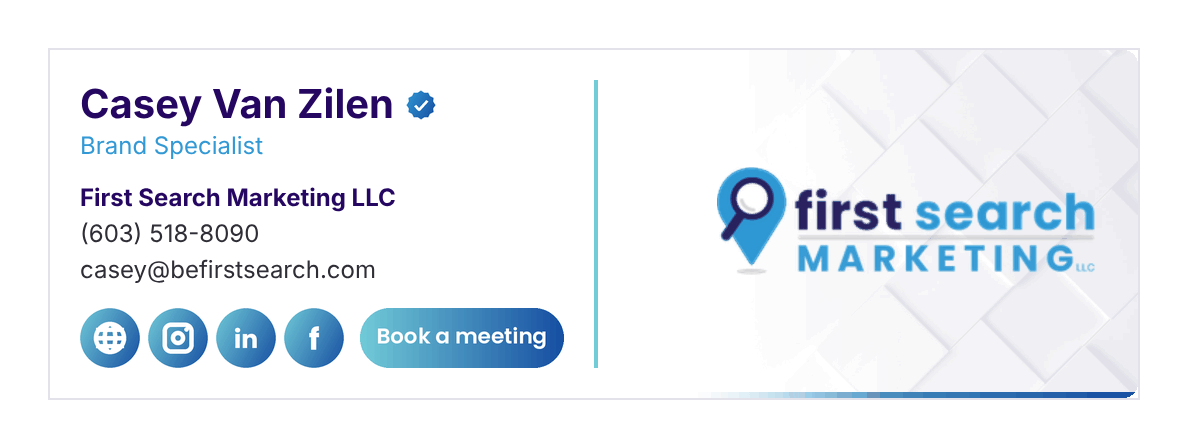
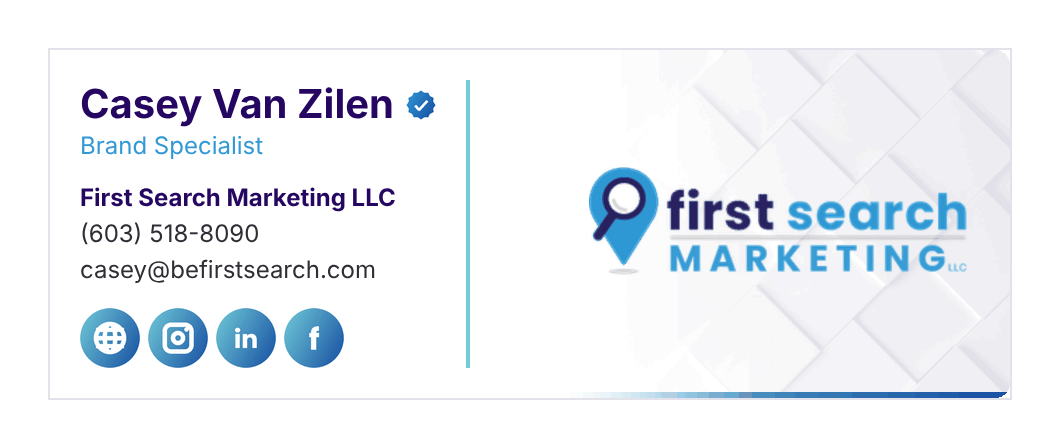
Email signature: no Book a meeting button for Jordyn and Casey
Claude-Session: https://claude.ai/code/session_013fjRDgxqUEnUcVR5QGeKxu

diff --git a/email-signature/jordyn-reardon.html b/email-signature/jordyn-reardon.html
@@ -32,7 +32,7 @@ ol { margin: 0; padding-left: 20px; } li { margin: 4px 0; }
     <tr><td style="padding:10px 0 0 0;">
       <table cellpadding="0" cellspacing="0" border="0" style="border-collapse:collapse;"><tr>
         <td style="padding:0 4px 0 0;"><a href="https://befirstsearch.com/" target="_blank" style="text-decoration:none;"><img class="fs-d" src="https://raw.githubusercontent.com/chrismitchell-cmd/first-search-marketing/038d49aa300f69e9255e79509927c0bbda54a0d3/email-signature/img/icon-web.gif" width="30" height="30" alt="Website" style="display:block;border:0;width:30px;height:30px;"><!--[if !mso]><!--><img class="fs-h" src="https://raw.githubusercontent.com/chrismitchell-cmd/first-search-marketing/038d49aa300f69e9255e79509927c0bbda54a0d3/email-signature/img/icon-web-hover.png" width="30" height="30" alt="Website" style="display:none;mso-hide:all;border:0;width:30px;height:30px;max-height:0;overflow:hidden;"><!--<![endif]--></a></td><td style="padding:0 4px 0 0;"><a href="https://www.instagram.com/firstsearchmktg/" target="_blank" style="text-decoration:none;"><img class="fs-d" src="https://raw.githubusercontent.com/chrismitchell-cmd/first-search-marketing/038d49aa300f69e9255e79509927c0bbda54a0d3/email-signature/img/icon-instagram.gif" width="30" height="30" alt="Instagram" style="display:block;border:0;width:30px;height:30px;"><!--[if !mso]><!--><img class="fs-h" src="https://raw.githubusercontent.com/chrismitchell-cmd/first-search-marketing/038d49aa300f69e9255e79509927c0bbda54a0d3/email-signature/img/icon-instagram-hover.png" width="30" height="30" alt="Instagram" style="display:none;mso-hide:all;border:0;width:30px;height:30px;max-height:0;overflow:hidden;"><!--<![endif]--></a></td><td style="padding:0 4px 0 0;"><a href="https://www.linkedin.com/company/first-search-marketing/" target="_blank" style="text-decoration:none;"><img class="fs-d" src="https://raw.githubusercontent.com/chrismitchell-cmd/first-search-marketing/038d49aa300f69e9255e79509927c0bbda54a0d3/email-signature/img/icon-linkedin.gif" width="30" height="30" alt="LinkedIn" style="display:block;border:0;width:30px;height:30px;"><!--[if !mso]><!--><img class="fs-h" src="https://raw.githubusercontent.com/chrismitchell-cmd/first-search-marketing/038d49aa300f69e9255e79509927c0bbda54a0d3/email-signature/img/icon-linkedin-hover.png" width="30" height="30" alt="LinkedIn" style="display:none;mso-hide:all;border:0;width:30px;height:30px;max-height:0;overflow:hidden;"><!--<![endif]--></a></td><td style="padding:0 4px 0 0;"><a href="https://www.facebook.com/p/First-Search-Marketing-LLC-100063771473527/" target="_blank" style="text-decoration:none;"><img class="fs-d" src="https://raw.githubusercontent.com/chrismitchell-cmd/first-search-marketing/038d49aa300f69e9255e79509927c0bbda54a0d3/email-signature/img/icon-facebook.gif" width="30" height="30" alt="Facebook" style="display:block;border:0;width:30px;height:30px;"><!--[if !mso]><!--><img class="fs-h" src="https://raw.githubusercontent.com/chrismitchell-cmd/first-search-marketing/038d49aa300f69e9255e79509927c0bbda54a0d3/email-signature/img/icon-facebook-hover.png" width="30" height="30" alt="Facebook" style="display:none;mso-hide:all;border:0;width:30px;height:30px;max-height:0;overflow:hidden;"><!--<![endif]--></a></td>
-        <td style="padding:0 0 0 4px;"><a href="https://befirstsearch.com/contact-us/" target="_blank" style="text-decoration:none;"><img class="fs-d" src="https://raw.githubusercontent.com/chrismitchell-cmd/first-search-marketing/038d49aa300f69e9255e79509927c0bbda54a0d3/email-signature/img/book-a-meeting.gif" width="102" height="30" alt="Book a meeting" style="display:block;border:0;width:102px;height:30px;"><!--[if !mso]><!--><img class="fs-h" src="https://raw.githubusercontent.com/chrismitchell-cmd/first-search-marketing/038d49aa300f69e9255e79509927c0bbda54a0d3/email-signature/img/book-a-meeting-hover.png" width="102" height="30" alt="Book a meeting" style="display:none;mso-hide:all;border:0;width:102px;height:30px;max-height:0;overflow:hidden;"><!--<![endif]--></a></td>
+        
       </tr></table>
     </td></tr>
   </table>
@@ -55,7 +55,7 @@ ol { margin: 0; padding-left: 20px; } li { margin: 4px 0; }
 <li>Outlook &gt; Settings &gt; Signatures &gt; +.</li><li>Paste, name it, and close the window to save.</li></ol></div>
 </main>
 <script>
-var SIG = "<style>.fsig a:hover .fs-d{display:none!important} .fsig a:hover .fs-h{display:block!important;max-height:none!important}</style>\n<table class=\"fsig\" cellpadding=\"0\" cellspacing=\"0\" border=\"0\" style=\"border-collapse:collapse;font-family:Inter, 'Segoe UI', Arial, sans-serif;\">\n<tr><td style=\"padding:0;border:1px solid #E3E2EA;border-radius:8px;background-color:#ffffff;\" bgcolor=\"#ffffff\">\n<table cellpadding=\"0\" cellspacing=\"0\" border=\"0\" style=\"border-collapse:collapse;\"><tr>\n<td valign=\"top\" align=\"left\" style=\"padding:15px;\">\n  <table cellpadding=\"0\" cellspacing=\"0\" border=\"0\" style=\"border-collapse:collapse;\">\n    <tr><td style=\"padding:0 0 8px 0;\">\n      <table cellpadding=\"0\" cellspacing=\"0\" border=\"0\" style=\"border-collapse:collapse;\"><tr>\n        <td valign=\"middle\" style=\"font-family:Inter, 'Segoe UI', Arial, sans-serif;font-size:20px;line-height:24px;font-weight:bold;color:#250762;white-space:nowrap;\">Jordyn Reardon</td>\n        <td valign=\"middle\" style=\"padding-left:6px;\"><img src=\"https://raw.githubusercontent.com/chrismitchell-cmd/first-search-marketing/038d49aa300f69e9255e79509927c0bbda54a0d3/email-signature/img/verified.gif\" width=\"15\" height=\"15\" alt=\"\" style=\"display:block;border:0;width:15px;height:15px;\"></td>\n      </tr></table>\n      <div style=\"font-family:Inter, 'Segoe UI', Arial, sans-serif;font-size:12px;line-height:18px;color:#3299D5;white-space:nowrap;\">Digital Operations Manager</div>\n    </td></tr>\n    <tr><td style=\"font-family:Inter, 'Segoe UI', Arial, sans-serif;font-size:12px;line-height:18px;font-weight:bold;color:#250762;white-space:nowrap;\">First Search Marketing LLC</td></tr>\n    <tr><td style=\"font-family:Inter, 'Segoe UI', Arial, sans-serif;font-size:12px;line-height:18px;white-space:nowrap;\"><a href=\"tel:+16035188090\" target=\"_blank\" style=\"text-decoration:none;color:#2F2E36;\">(603) 518-8090</a></td></tr>\n    <tr><td style=\"font-family:Inter, 'Segoe UI', Arial, sans-serif;font-size:12px;line-height:18px;white-space:nowrap;\"><a href=\"mailto:jordyn@befirstsearch.com\" target=\"_blank\" style=\"text-decoration:none;color:#2F2E36;\">jordyn@befirstsearch.com</a></td></tr>\n    <tr><td style=\"padding:10px 0 0 0;\">\n      <table cellpadding=\"0\" cellspacing=\"0\" border=\"0\" style=\"border-collapse:collapse;\"><tr>\n        <td style=\"padding:0 4px 0 0;\"><a href=\"https://befirstsearch.com/\" target=\"_blank\" style=\"text-decoration:none;\"><img class=\"fs-d\" src=\"https://raw.githubusercontent.com/chrismitchell-cmd/first-search-marketing/038d49aa300f69e9255e79509927c0bbda54a0d3/email-signature/img/icon-web.gif\" width=\"30\" height=\"30\" alt=\"Website\" style=\"display:block;border:0;width:30px;height:30px;\"><!--[if !mso]><!--><img class=\"fs-h\" src=\"https://raw.githubusercontent.com/chrismitchell-cmd/first-search-marketing/038d49aa300f69e9255e79509927c0bbda54a0d3/email-signature/img/icon-web-hover.png\" width=\"30\" height=\"30\" alt=\"Website\" style=\"display:none;mso-hide:all;border:0;width:30px;height:30px;max-height:0;overflow:hidden;\"><!--<![endif]--></a></td><td style=\"padding:0 4px 0 0;\"><a href=\"https://www.instagram.com/firstsearchmktg/\" target=\"_blank\" style=\"text-decoration:none;\"><img class=\"fs-d\" src=\"https://raw.githubusercontent.com/chrismitchell-cmd/first-search-marketing/038d49aa300f69e9255e79509927c0bbda54a0d3/email-signature/img/icon-instagram.gif\" width=\"30\" height=\"30\" alt=\"Instagram\" style=\"display:block;border:0;width:30px;height:30px;\"><!--[if !mso]><!--><img class=\"fs-h\" src=\"https://raw.githubusercontent.com/chrismitchell-cmd/first-search-marketing/038d49aa300f69e9255e79509927c0bbda54a0d3/email-signature/img/icon-instagram-hover.png\" width=\"30\" height=\"30\" alt=\"Instagram\" style=\"display:none;mso-hide:all;border:0;width:30px;height:30px;max-height:0;overflow:hidden;\"><!--<![endif]--></a></td><td style=\"padding:0 4px 0 0;\"><a href=\"https://www.linkedin.com/company/first-search-marketing/\" target=\"_blank\" style=\"text-decoration:none;\"><img class=\"fs-d\" src=\"https://raw.githubusercontent.com/chrismitchell-cmd/first-search-marketing/038d49aa300f69e9255e79509927c0bbda54a0d3/email-signature/img/icon-linkedin.gif\" width=\"30\" height=\"30\" alt=\"LinkedIn\" style=\"display:block;border:0;width:30px;height:30px;\"><!--[if !mso]><!--><img class=\"fs-h\" src=\"https://raw.githubusercontent.com/chrismitchell-cmd/first-search-marketing/038d49aa300f69e9255e79509927c0bbda54a0d3/email-signature/img/icon-linkedin-hover.png\" width=\"30\" height=\"30\" alt=\"LinkedIn\" style=\"display:none;mso-hide:all;border:0;width:30px;height:30px;max-height:0;overflow:hidden;\"><!--<![endif]--></a></td><td style=\"padding:0 4px 0 0;\"><a href=\"https://www.facebook.com/p/First-Search-Marketing-LLC-100063771473527/\" target=\"_blank\" style=\"text-decoration:none;\"><img class=\"fs-d\" src=\"https://raw.githubusercontent.com/chrismitchell-cmd/first-search-marketing/038d49aa300f69e9255e79509927c0bbda54a0d3/email-signature/img/icon-facebook.gif\" width=\"30\" height=\"30\" alt=\"Facebook\" style=\"display:block;border:0;width:30px;height:30px;\"><!--[if !mso]><!--><img class=\"fs-h\" src=\"https://raw.githubusercontent.com/chrismitchell-cmd/first-search-marketing/038d49aa300f69e9255e79509927c0bbda54a0d3/email-signature/img/icon-facebook-hover.png\" width=\"30\" height=\"30\" alt=\"Facebook\" style=\"display:none;mso-hide:all;border:0;width:30px;height:30px;max-height:0;overflow:hidden;\"><!--<![endif]--></a></td>\n        <td style=\"padding:0 0 0 4px;\"><a href=\"https://befirstsearch.com/contact-us/\" target=\"_blank\" style=\"text-decoration:none;\"><img class=\"fs-d\" src=\"https://raw.githubusercontent.com/chrismitchell-cmd/first-search-marketing/038d49aa300f69e9255e79509927c0bbda54a0d3/email-signature/img/book-a-meeting.gif\" width=\"102\" height=\"30\" alt=\"Book a meeting\" style=\"display:block;border:0;width:102px;height:30px;\"><!--[if !mso]><!--><img class=\"fs-h\" src=\"https://raw.githubusercontent.com/chrismitchell-cmd/first-search-marketing/038d49aa300f69e9255e79509927c0bbda54a0d3/email-signature/img/book-a-meeting-hover.png\" width=\"102\" height=\"30\" alt=\"Book a meeting\" style=\"display:none;mso-hide:all;border:0;width:102px;height:30px;max-height:0;overflow:hidden;\"><!--<![endif]--></a></td>\n      </tr></table>\n    </td></tr>\n  </table>\n</td>\n<td valign=\"middle\" style=\"padding:15px 0;\">\n  <table cellpadding=\"0\" cellspacing=\"0\" border=\"0\" style=\"border-collapse:collapse;\"><tr><td height=\"144\" style=\"height:144px;width:0;border-left:2px solid #72CCD8;font-size:1px;line-height:1px;\">&nbsp;</td></tr></table>\n</td>\n<td valign=\"top\" align=\"right\" style=\"padding:0;font-size:0;line-height:0;\"><a href=\"https://befirstsearch.com/\" target=\"_blank\" style=\"text-decoration:none;\"><img src=\"https://raw.githubusercontent.com/chrismitchell-cmd/first-search-marketing/038d49aa300f69e9255e79509927c0bbda54a0d3/email-signature/img/logo-original.gif\" width=\"270\" height=\"174\" alt=\"First Search Marketing\" style=\"display:block;border:0;width:270px;height:174px;\"></a></td>\n</tr></table>\n</td></tr></table>";   // the exact signature HTML, including the hover styles
+var SIG = "<style>.fsig a:hover .fs-d{display:none!important} .fsig a:hover .fs-h{display:block!important;max-height:none!important}</style>\n<table class=\"fsig\" cellpadding=\"0\" cellspacing=\"0\" border=\"0\" style=\"border-collapse:collapse;font-family:Inter, 'Segoe UI', Arial, sans-serif;\">\n<tr><td style=\"padding:0;border:1px solid #E3E2EA;border-radius:8px;background-color:#ffffff;\" bgcolor=\"#ffffff\">\n<table cellpadding=\"0\" cellspacing=\"0\" border=\"0\" style=\"border-collapse:collapse;\"><tr>\n<td valign=\"top\" align=\"left\" style=\"padding:15px;\">\n  <table cellpadding=\"0\" cellspacing=\"0\" border=\"0\" style=\"border-collapse:collapse;\">\n    <tr><td style=\"padding:0 0 8px 0;\">\n      <table cellpadding=\"0\" cellspacing=\"0\" border=\"0\" style=\"border-collapse:collapse;\"><tr>\n        <td valign=\"middle\" style=\"font-family:Inter, 'Segoe UI', Arial, sans-serif;font-size:20px;line-height:24px;font-weight:bold;color:#250762;white-space:nowrap;\">Jordyn Reardon</td>\n        <td valign=\"middle\" style=\"padding-left:6px;\"><img src=\"https://raw.githubusercontent.com/chrismitchell-cmd/first-search-marketing/038d49aa300f69e9255e79509927c0bbda54a0d3/email-signature/img/verified.gif\" width=\"15\" height=\"15\" alt=\"\" style=\"display:block;border:0;width:15px;height:15px;\"></td>\n      </tr></table>\n      <div style=\"font-family:Inter, 'Segoe UI', Arial, sans-serif;font-size:12px;line-height:18px;color:#3299D5;white-space:nowrap;\">Digital Operations Manager</div>\n    </td></tr>\n    <tr><td style=\"font-family:Inter, 'Segoe UI', Arial, sans-serif;font-size:12px;line-height:18px;font-weight:bold;color:#250762;white-space:nowrap;\">First Search Marketing LLC</td></tr>\n    <tr><td style=\"font-family:Inter, 'Segoe UI', Arial, sans-serif;font-size:12px;line-height:18px;white-space:nowrap;\"><a href=\"tel:+16035188090\" target=\"_blank\" style=\"text-decoration:none;color:#2F2E36;\">(603) 518-8090</a></td></tr>\n    <tr><td style=\"font-family:Inter, 'Segoe UI', Arial, sans-serif;font-size:12px;line-height:18px;white-space:nowrap;\"><a href=\"mailto:jordyn@befirstsearch.com\" target=\"_blank\" style=\"text-decoration:none;color:#2F2E36;\">jordyn@befirstsearch.com</a></td></tr>\n    <tr><td style=\"padding:10px 0 0 0;\">\n      <table cellpadding=\"0\" cellspacing=\"0\" border=\"0\" style=\"border-collapse:collapse;\"><tr>\n        <td style=\"padding:0 4px 0 0;\"><a href=\"https://befirstsearch.com/\" target=\"_blank\" style=\"text-decoration:none;\"><img class=\"fs-d\" src=\"https://raw.githubusercontent.com/chrismitchell-cmd/first-search-marketing/038d49aa300f69e9255e79509927c0bbda54a0d3/email-signature/img/icon-web.gif\" width=\"30\" height=\"30\" alt=\"Website\" style=\"display:block;border:0;width:30px;height:30px;\"><!--[if !mso]><!--><img class=\"fs-h\" src=\"https://raw.githubusercontent.com/chrismitchell-cmd/first-search-marketing/038d49aa300f69e9255e79509927c0bbda54a0d3/email-signature/img/icon-web-hover.png\" width=\"30\" height=\"30\" alt=\"Website\" style=\"display:none;mso-hide:all;border:0;width:30px;height:30px;max-height:0;overflow:hidden;\"><!--<![endif]--></a></td><td style=\"padding:0 4px 0 0;\"><a href=\"https://www.instagram.com/firstsearchmktg/\" target=\"_blank\" style=\"text-decoration:none;\"><img class=\"fs-d\" src=\"https://raw.githubusercontent.com/chrismitchell-cmd/first-search-marketing/038d49aa300f69e9255e79509927c0bbda54a0d3/email-signature/img/icon-instagram.gif\" width=\"30\" height=\"30\" alt=\"Instagram\" style=\"display:block;border:0;width:30px;height:30px;\"><!--[if !mso]><!--><img class=\"fs-h\" src=\"https://raw.githubusercontent.com/chrismitchell-cmd/first-search-marketing/038d49aa300f69e9255e79509927c0bbda54a0d3/email-signature/img/icon-instagram-hover.png\" width=\"30\" height=\"30\" alt=\"Instagram\" style=\"display:none;mso-hide:all;border:0;width:30px;height:30px;max-height:0;overflow:hidden;\"><!--<![endif]--></a></td><td style=\"padding:0 4px 0 0;\"><a href=\"https://www.linkedin.com/company/first-search-marketing/\" target=\"_blank\" style=\"text-decoration:none;\"><img class=\"fs-d\" src=\"https://raw.githubusercontent.com/chrismitchell-cmd/first-search-marketing/038d49aa300f69e9255e79509927c0bbda54a0d3/email-signature/img/icon-linkedin.gif\" width=\"30\" height=\"30\" alt=\"LinkedIn\" style=\"display:block;border:0;width:30px;height:30px;\"><!--[if !mso]><!--><img class=\"fs-h\" src=\"https://raw.githubusercontent.com/chrismitchell-cmd/first-search-marketing/038d49aa300f69e9255e79509927c0bbda54a0d3/email-signature/img/icon-linkedin-hover.png\" width=\"30\" height=\"30\" alt=\"LinkedIn\" style=\"display:none;mso-hide:all;border:0;width:30px;height:30px;max-height:0;overflow:hidden;\"><!--<![endif]--></a></td><td style=\"padding:0 4px 0 0;\"><a href=\"https://www.facebook.com/p/First-Search-Marketing-LLC-100063771473527/\" target=\"_blank\" style=\"text-decoration:none;\"><img class=\"fs-d\" src=\"https://raw.githubusercontent.com/chrismitchell-cmd/first-search-marketing/038d49aa300f69e9255e79509927c0bbda54a0d3/email-signature/img/icon-facebook.gif\" width=\"30\" height=\"30\" alt=\"Facebook\" style=\"display:block;border:0;width:30px;height:30px;\"><!--[if !mso]><!--><img class=\"fs-h\" src=\"https://raw.githubusercontent.com/chrismitchell-cmd/first-search-marketing/038d49aa300f69e9255e79509927c0bbda54a0d3/email-signature/img/icon-facebook-hover.png\" width=\"30\" height=\"30\" alt=\"Facebook\" style=\"display:none;mso-hide:all;border:0;width:30px;height:30px;max-height:0;overflow:hidden;\"><!--<![endif]--></a></td>\n        \n      </tr></table>\n    </td></tr>\n  </table>\n</td>\n<td valign=\"middle\" style=\"padding:15px 0;\">\n  <table cellpadding=\"0\" cellspacing=\"0\" border=\"0\" style=\"border-collapse:collapse;\"><tr><td height=\"144\" style=\"height:144px;width:0;border-left:2px solid #72CCD8;font-size:1px;line-height:1px;\">&nbsp;</td></tr></table>\n</td>\n<td valign=\"top\" align=\"right\" style=\"padding:0;font-size:0;line-height:0;\"><a href=\"https://befirstsearch.com/\" target=\"_blank\" style=\"text-decoration:none;\"><img src=\"https://raw.githubusercontent.com/chrismitchell-cmd/first-search-marketing/038d49aa300f69e9255e79509927c0bbda54a0d3/email-signature/img/logo-original.gif\" width=\"270\" height=\"174\" alt=\"First Search Marketing\" style=\"display:block;border:0;width:270px;height:174px;\"></a></td>\n</tr></table>\n</td></tr></table>";   // the exact signature HTML, including the hover styles
 function done() { document.getElementById('ok').hidden = false; }
 function fallback() {
   var r = document.createRange(); r.selectNode(document.getElementById('sig'));

diff --git a/email-signature/casey-van-zilen.html b/email-signature/casey-van-zilen.html
@@ -32,7 +32,7 @@ ol { margin: 0; padding-left: 20px; } li { margin: 4px 0; }
     <tr><td style="padding:10px 0 0 0;">
       <table cellpadding="0" cellspacing="0" border="0" style="border-collapse:collapse;"><tr>
         <td style="padding:0 4px 0 0;"><a href="https://befirstsearch.com/" target="_blank" style="text-decoration:none;"><img class="fs-d" src="https://raw.githubusercontent.com/chrismitchell-cmd/first-search-marketing/038d49aa300f69e9255e79509927c0bbda54a0d3/email-signature/img/icon-web.gif" width="30" height="30" alt="Website" style="display:block;border:0;width:30px;height:30px;"><!--[if !mso]><!--><img class="fs-h" src="https://raw.githubusercontent.com/chrismitchell-cmd/first-search-marketing/038d49aa300f69e9255e79509927c0bbda54a0d3/email-signature/img/icon-web-hover.png" width="30" height="30" alt="Website" style="display:none;mso-hide:all;border:0;width:30px;height:30px;max-height:0;overflow:hidden;"><!--<![endif]--></a></td><td style="padding:0 4px 0 0;"><a href="https://www.instagram.com/firstsearchmktg/" target="_blank" style="text-decoration:none;"><img class="fs-d" src="https://raw.githubusercontent.com/chrismitchell-cmd/first-search-marketing/038d49aa300f69e9255e79509927c0bbda54a0d3/email-signature/img/icon-instagram.gif" width="30" height="30" alt="Instagram" style="display:block;border:0;width:30px;height:30px;"><!--[if !mso]><!--><img class="fs-h" src="https://raw.githubusercontent.com/chrismitchell-cmd/first-search-marketing/038d49aa300f69e9255e79509927c0bbda54a0d3/email-signature/img/icon-instagram-hover.png" width="30" height="30" alt="Instagram" style="display:none;mso-hide:all;border:0;width:30px;height:30px;max-height:0;overflow:hidden;"><!--<![endif]--></a></td><td style="padding:0 4px 0 0;"><a href="https://www.linkedin.com/company/first-search-marketing/" target="_blank" style="text-decoration:none;"><img class="fs-d" src="https://raw.githubusercontent.com/chrismitchell-cmd/first-search-marketing/038d49aa300f69e9255e79509927c0bbda54a0d3/email-signature/img/icon-linkedin.gif" width="30" height="30" alt="LinkedIn" style="display:block;border:0;width:30px;height:30px;"><!--[if !mso]><!--><img class="fs-h" src="https://raw.githubusercontent.com/chrismitchell-cmd/first-search-marketing/038d49aa300f69e9255e79509927c0bbda54a0d3/email-signature/img/icon-linkedin-hover.png" width="30" height="30" alt="LinkedIn" style="display:none;mso-hide:all;border:0;width:30px;height:30px;max-height:0;overflow:hidden;"><!--<![endif]--></a></td><td style="padding:0 4px 0 0;"><a href="https://www.facebook.com/p/First-Search-Marketing-LLC-100063771473527/" target="_blank" style="text-decoration:none;"><img class="fs-d" src="https://raw.githubusercontent.com/chrismitchell-cmd/first-search-marketing/038d49aa300f69e9255e79509927c0bbda54a0d3/email-signature/img/icon-facebook.gif" width="30" height="30" alt="Facebook" style="display:block;border:0;width:30px;height:30px;"><!--[if !mso]><!--><img class="fs-h" src="https://raw.githubusercontent.com/chrismitchell-cmd/first-search-marketing/038d49aa300f69e9255e79509927c0bbda54a0d3/email-signature/img/icon-facebook-hover.png" width="30" height="30" alt="Facebook" style="display:none;mso-hide:all;border:0;width:30px;height:30px;max-height:0;overflow:hidden;"><!--<![endif]--></a></td>
-        <td style="padding:0 0 0 4px;"><a href="https://befirstsearch.com/contact-us/" target="_blank" style="text-decoration:none;"><img class="fs-d" src="https://raw.githubusercontent.com/chrismitchell-cmd/first-search-marketing/038d49aa300f69e9255e79509927c0bbda54a0d3/email-signature/img/book-a-meeting.gif" width="102" height="30" alt="Book a meeting" style="display:block;border:0;width:102px;height:30px;"><!--[if !mso]><!--><img class="fs-h" src="https://raw.githubusercontent.com/chrismitchell-cmd/first-search-marketing/038d49aa300f69e9255e79509927c0bbda54a0d3/email-signature/img/book-a-meeting-hover.png" width="102" height="30" alt="Book a meeting" style="display:none;mso-hide:all;border:0;width:102px;height:30px;max-height:0;overflow:hidden;"><!--<![endif]--></a></td>
+        
       </tr></table>
     </td></tr>
   </table>
@@ -55,7 +55,7 @@ ol { margin: 0; padding-left: 20px; } li { margin: 4px 0; }
 <li>Outlook &gt; Settings &gt; Signatures &gt; +.</li><li>Paste, name it, and close the window to save.</li></ol></div>
 </main>
 <script>
-var SIG = "<style>.fsig a:hover .fs-d{display:none!important} .fsig a:hover .fs-h{display:block!important;max-height:none!important}</style>\n<table class=\"fsig\" cellpadding=\"0\" cellspacing=\"0\" border=\"0\" style=\"border-collapse:collapse;font-family:Inter, 'Segoe UI', Arial, sans-serif;\">\n<tr><td style=\"padding:0;border:1px solid #E3E2EA;border-radius:8px;background-color:#ffffff;\" bgcolor=\"#ffffff\">\n<table cellpadding=\"0\" cellspacing=\"0\" border=\"0\" style=\"border-collapse:collapse;\"><tr>\n<td valign=\"top\" align=\"left\" style=\"padding:15px;\">\n  <table cellpadding=\"0\" cellspacing=\"0\" border=\"0\" style=\"border-collapse:collapse;\">\n    <tr><td style=\"padding:0 0 8px 0;\">\n      <table cellpadding=\"0\" cellspacing=\"0\" border=\"0\" style=\"border-collapse:collapse;\"><tr>\n        <td valign=\"middle\" style=\"font-family:Inter, 'Segoe UI', Arial, sans-serif;font-size:20px;line-height:24px;font-weight:bold;color:#250762;white-space:nowrap;\">Casey Van Zilen</td>\n        <td valign=\"middle\" style=\"padding-left:6px;\"><img src=\"https://raw.githubusercontent.com/chrismitchell-cmd/first-search-marketing/038d49aa300f69e9255e79509927c0bbda54a0d3/email-signature/img/verified.gif\" width=\"15\" height=\"15\" alt=\"\" style=\"display:block;border:0;width:15px;height:15px;\"></td>\n      </tr></table>\n      <div style=\"font-family:Inter, 'Segoe UI', Arial, sans-serif;font-size:12px;line-height:18px;color:#3299D5;white-space:nowrap;\">Brand Specialist</div>\n    </td></tr>\n    <tr><td style=\"font-family:Inter, 'Segoe UI', Arial, sans-serif;font-size:12px;line-height:18px;font-weight:bold;color:#250762;white-space:nowrap;\">First Search Marketing LLC</td></tr>\n    <tr><td style=\"font-family:Inter, 'Segoe UI', Arial, sans-serif;font-size:12px;line-height:18px;white-space:nowrap;\"><a href=\"tel:+16035188090\" target=\"_blank\" style=\"text-decoration:none;color:#2F2E36;\">(603) 518-8090</a></td></tr>\n    <tr><td style=\"font-family:Inter, 'Segoe UI', Arial, sans-serif;font-size:12px;line-height:18px;white-space:nowrap;\"><a href=\"mailto:casey@befirstsearch.com\" target=\"_blank\" style=\"text-decoration:none;color:#2F2E36;\">casey@befirstsearch.com</a></td></tr>\n    <tr><td style=\"padding:10px 0 0 0;\">\n      <table cellpadding=\"0\" cellspacing=\"0\" border=\"0\" style=\"border-collapse:collapse;\"><tr>\n        <td style=\"padding:0 4px 0 0;\"><a href=\"https://befirstsearch.com/\" target=\"_blank\" style=\"text-decoration:none;\"><img class=\"fs-d\" src=\"https://raw.githubusercontent.com/chrismitchell-cmd/first-search-marketing/038d49aa300f69e9255e79509927c0bbda54a0d3/email-signature/img/icon-web.gif\" width=\"30\" height=\"30\" alt=\"Website\" style=\"display:block;border:0;width:30px;height:30px;\"><!--[if !mso]><!--><img class=\"fs-h\" src=\"https://raw.githubusercontent.com/chrismitchell-cmd/first-search-marketing/038d49aa300f69e9255e79509927c0bbda54a0d3/email-signature/img/icon-web-hover.png\" width=\"30\" height=\"30\" alt=\"Website\" style=\"display:none;mso-hide:all;border:0;width:30px;height:30px;max-height:0;overflow:hidden;\"><!--<![endif]--></a></td><td style=\"padding:0 4px 0 0;\"><a href=\"https://www.instagram.com/firstsearchmktg/\" target=\"_blank\" style=\"text-decoration:none;\"><img class=\"fs-d\" src=\"https://raw.githubusercontent.com/chrismitchell-cmd/first-search-marketing/038d49aa300f69e9255e79509927c0bbda54a0d3/email-signature/img/icon-instagram.gif\" width=\"30\" height=\"30\" alt=\"Instagram\" style=\"display:block;border:0;width:30px;height:30px;\"><!--[if !mso]><!--><img class=\"fs-h\" src=\"https://raw.githubusercontent.com/chrismitchell-cmd/first-search-marketing/038d49aa300f69e9255e79509927c0bbda54a0d3/email-signature/img/icon-instagram-hover.png\" width=\"30\" height=\"30\" alt=\"Instagram\" style=\"display:none;mso-hide:all;border:0;width:30px;height:30px;max-height:0;overflow:hidden;\"><!--<![endif]--></a></td><td style=\"padding:0 4px 0 0;\"><a href=\"https://www.linkedin.com/company/first-search-marketing/\" target=\"_blank\" style=\"text-decoration:none;\"><img class=\"fs-d\" src=\"https://raw.githubusercontent.com/chrismitchell-cmd/first-search-marketing/038d49aa300f69e9255e79509927c0bbda54a0d3/email-signature/img/icon-linkedin.gif\" width=\"30\" height=\"30\" alt=\"LinkedIn\" style=\"display:block;border:0;width:30px;height:30px;\"><!--[if !mso]><!--><img class=\"fs-h\" src=\"https://raw.githubusercontent.com/chrismitchell-cmd/first-search-marketing/038d49aa300f69e9255e79509927c0bbda54a0d3/email-signature/img/icon-linkedin-hover.png\" width=\"30\" height=\"30\" alt=\"LinkedIn\" style=\"display:none;mso-hide:all;border:0;width:30px;height:30px;max-height:0;overflow:hidden;\"><!--<![endif]--></a></td><td style=\"padding:0 4px 0 0;\"><a href=\"https://www.facebook.com/p/First-Search-Marketing-LLC-100063771473527/\" target=\"_blank\" style=\"text-decoration:none;\"><img class=\"fs-d\" src=\"https://raw.githubusercontent.com/chrismitchell-cmd/first-search-marketing/038d49aa300f69e9255e79509927c0bbda54a0d3/email-signature/img/icon-facebook.gif\" width=\"30\" height=\"30\" alt=\"Facebook\" style=\"display:block;border:0;width:30px;height:30px;\"><!--[if !mso]><!--><img class=\"fs-h\" src=\"https://raw.githubusercontent.com/chrismitchell-cmd/first-search-marketing/038d49aa300f69e9255e79509927c0bbda54a0d3/email-signature/img/icon-facebook-hover.png\" width=\"30\" height=\"30\" alt=\"Facebook\" style=\"display:none;mso-hide:all;border:0;width:30px;height:30px;max-height:0;overflow:hidden;\"><!--<![endif]--></a></td>\n        <td style=\"padding:0 0 0 4px;\"><a href=\"https://befirstsearch.com/contact-us/\" target=\"_blank\" style=\"text-decoration:none;\"><img class=\"fs-d\" src=\"https://raw.githubusercontent.com/chrismitchell-cmd/first-search-marketing/038d49aa300f69e9255e79509927c0bbda54a0d3/email-signature/img/book-a-meeting.gif\" width=\"102\" height=\"30\" alt=\"Book a meeting\" style=\"display:block;border:0;width:102px;height:30px;\"><!--[if !mso]><!--><img class=\"fs-h\" src=\"https://raw.githubusercontent.com/chrismitchell-cmd/first-search-marketing/038d49aa300f69e9255e79509927c0bbda54a0d3/email-signature/img/book-a-meeting-hover.png\" width=\"102\" height=\"30\" alt=\"Book a meeting\" style=\"display:none;mso-hide:all;border:0;width:102px;height:30px;max-height:0;overflow:hidden;\"><!--<![endif]--></a></td>\n      </tr></table>\n    </td></tr>\n  </table>\n</td>\n<td valign=\"middle\" style=\"padding:15px 0;\">\n  <table cellpadding=\"0\" cellspacing=\"0\" border=\"0\" style=\"border-collapse:collapse;\"><tr><td height=\"144\" style=\"height:144px;width:0;border-left:2px solid #72CCD8;font-size:1px;line-height:1px;\">&nbsp;</td></tr></table>\n</td>\n<td valign=\"top\" align=\"right\" style=\"padding:0;font-size:0;line-height:0;\"><a href=\"https://befirstsearch.com/\" target=\"_blank\" style=\"text-decoration:none;\"><img src=\"https://raw.githubusercontent.com/chrismitchell-cmd/first-search-marketing/038d49aa300f69e9255e79509927c0bbda54a0d3/email-signature/img/logo-original.gif\" width=\"270\" height=\"174\" alt=\"First Search Marketing\" style=\"display:block;border:0;width:270px;height:174px;\"></a></td>\n</tr></table>\n</td></tr></table>";   // the exact signature HTML, including the hover styles
+var SIG = "<style>.fsig a:hover .fs-d{display:none!important} .fsig a:hover .fs-h{display:block!important;max-height:none!important}</style>\n<table class=\"fsig\" cellpadding=\"0\" cellspacing=\"0\" border=\"0\" style=\"border-collapse:collapse;font-family:Inter, 'Segoe UI', Arial, sans-serif;\">\n<tr><td style=\"padding:0;border:1px solid #E3E2EA;border-radius:8px;background-color:#ffffff;\" bgcolor=\"#ffffff\">\n<table cellpadding=\"0\" cellspacing=\"0\" border=\"0\" style=\"border-collapse:collapse;\"><tr>\n<td valign=\"top\" align=\"left\" style=\"padding:15px;\">\n  <table cellpadding=\"0\" cellspacing=\"0\" border=\"0\" style=\"border-collapse:collapse;\">\n    <tr><td style=\"padding:0 0 8px 0;\">\n      <table cellpadding=\"0\" cellspacing=\"0\" border=\"0\" style=\"border-collapse:collapse;\"><tr>\n        <td valign=\"middle\" style=\"font-family:Inter, 'Segoe UI', Arial, sans-serif;font-size:20px;line-height:24px;font-weight:bold;color:#250762;white-space:nowrap;\">Casey Van Zilen</td>\n        <td valign=\"middle\" style=\"padding-left:6px;\"><img src=\"https://raw.githubusercontent.com/chrismitchell-cmd/first-search-marketing/038d49aa300f69e9255e79509927c0bbda54a0d3/email-signature/img/verified.gif\" width=\"15\" height=\"15\" alt=\"\" style=\"display:block;border:0;width:15px;height:15px;\"></td>\n      </tr></table>\n      <div style=\"font-family:Inter, 'Segoe UI', Arial, sans-serif;font-size:12px;line-height:18px;color:#3299D5;white-space:nowrap;\">Brand Specialist</div>\n    </td></tr>\n    <tr><td style=\"font-family:Inter, 'Segoe UI', Arial, sans-serif;font-size:12px;line-height:18px;font-weight:bold;color:#250762;white-space:nowrap;\">First Search Marketing LLC</td></tr>\n    <tr><td style=\"font-family:Inter, 'Segoe UI', Arial, sans-serif;font-size:12px;line-height:18px;white-space:nowrap;\"><a href=\"tel:+16035188090\" target=\"_blank\" style=\"text-decoration:none;color:#2F2E36;\">(603) 518-8090</a></td></tr>\n    <tr><td style=\"font-family:Inter, 'Segoe UI', Arial, sans-serif;font-size:12px;line-height:18px;white-space:nowrap;\"><a href=\"mailto:casey@befirstsearch.com\" target=\"_blank\" style=\"text-decoration:none;color:#2F2E36;\">casey@befirstsearch.com</a></td></tr>\n    <tr><td style=\"padding:10px 0 0 0;\">\n      <table cellpadding=\"0\" cellspacing=\"0\" border=\"0\" style=\"border-collapse:collapse;\"><tr>\n        <td style=\"padding:0 4px 0 0;\"><a href=\"https://befirstsearch.com/\" target=\"_blank\" style=\"text-decoration:none;\"><img class=\"fs-d\" src=\"https://raw.githubusercontent.com/chrismitchell-cmd/first-search-marketing/038d49aa300f69e9255e79509927c0bbda54a0d3/email-signature/img/icon-web.gif\" width=\"30\" height=\"30\" alt=\"Website\" style=\"display:block;border:0;width:30px;height:30px;\"><!--[if !mso]><!--><img class=\"fs-h\" src=\"https://raw.githubusercontent.com/chrismitchell-cmd/first-search-marketing/038d49aa300f69e9255e79509927c0bbda54a0d3/email-signature/img/icon-web-hover.png\" width=\"30\" height=\"30\" alt=\"Website\" style=\"display:none;mso-hide:all;border:0;width:30px;height:30px;max-height:0;overflow:hidden;\"><!--<![endif]--></a></td><td style=\"padding:0 4px 0 0;\"><a href=\"https://www.instagram.com/firstsearchmktg/\" target=\"_blank\" style=\"text-decoration:none;\"><img class=\"fs-d\" src=\"https://raw.githubusercontent.com/chrismitchell-cmd/first-search-marketing/038d49aa300f69e9255e79509927c0bbda54a0d3/email-signature/img/icon-instagram.gif\" width=\"30\" height=\"30\" alt=\"Instagram\" style=\"display:block;border:0;width:30px;height:30px;\"><!--[if !mso]><!--><img class=\"fs-h\" src=\"https://raw.githubusercontent.com/chrismitchell-cmd/first-search-marketing/038d49aa300f69e9255e79509927c0bbda54a0d3/email-signature/img/icon-instagram-hover.png\" width=\"30\" height=\"30\" alt=\"Instagram\" style=\"display:none;mso-hide:all;border:0;width:30px;height:30px;max-height:0;overflow:hidden;\"><!--<![endif]--></a></td><td style=\"padding:0 4px 0 0;\"><a href=\"https://www.linkedin.com/company/first-search-marketing/\" target=\"_blank\" style=\"text-decoration:none;\"><img class=\"fs-d\" src=\"https://raw.githubusercontent.com/chrismitchell-cmd/first-search-marketing/038d49aa300f69e9255e79509927c0bbda54a0d3/email-signature/img/icon-linkedin.gif\" width=\"30\" height=\"30\" alt=\"LinkedIn\" style=\"display:block;border:0;width:30px;height:30px;\"><!--[if !mso]><!--><img class=\"fs-h\" src=\"https://raw.githubusercontent.com/chrismitchell-cmd/first-search-marketing/038d49aa300f69e9255e79509927c0bbda54a0d3/email-signature/img/icon-linkedin-hover.png\" width=\"30\" height=\"30\" alt=\"LinkedIn\" style=\"display:none;mso-hide:all;border:0;width:30px;height:30px;max-height:0;overflow:hidden;\"><!--<![endif]--></a></td><td style=\"padding:0 4px 0 0;\"><a href=\"https://www.facebook.com/p/First-Search-Marketing-LLC-100063771473527/\" target=\"_blank\" style=\"text-decoration:none;\"><img class=\"fs-d\" src=\"https://raw.githubusercontent.com/chrismitchell-cmd/first-search-marketing/038d49aa300f69e9255e79509927c0bbda54a0d3/email-signature/img/icon-facebook.gif\" width=\"30\" height=\"30\" alt=\"Facebook\" style=\"display:block;border:0;width:30px;height:30px;\"><!--[if !mso]><!--><img class=\"fs-h\" src=\"https://raw.githubusercontent.com/chrismitchell-cmd/first-search-marketing/038d49aa300f69e9255e79509927c0bbda54a0d3/email-signature/img/icon-facebook-hover.png\" width=\"30\" height=\"30\" alt=\"Facebook\" style=\"display:none;mso-hide:all;border:0;width:30px;height:30px;max-height:0;overflow:hidden;\"><!--<![endif]--></a></td>\n        \n      </tr></table>\n    </td></tr>\n  </table>\n</td>\n<td valign=\"middle\" style=\"padding:15px 0;\">\n  <table cellpadding=\"0\" cellspacing=\"0\" border=\"0\" style=\"border-collapse:collapse;\"><tr><td height=\"144\" style=\"height:144px;width:0;border-left:2px solid #72CCD8;font-size:1px;line-height:1px;\">&nbsp;</td></tr></table>\n</td>\n<td valign=\"top\" align=\"right\" style=\"padding:0;font-size:0;line-height:0;\"><a href=\"https://befirstsearch.com/\" target=\"_blank\" style=\"text-decoration:none;\"><img src=\"https://raw.githubusercontent.com/chrismitchell-cmd/first-search-marketing/038d49aa300f69e9255e79509927c0bbda54a0d3/email-signature/img/logo-original.gif\" width=\"270\" height=\"174\" alt=\"First Search Marketing\" style=\"display:block;border:0;width:270px;height:174px;\"></a></td>\n</tr></table>\n</td></tr></table>";   // the exact signature HTML, including the hover styles
 function done() { document.getElementById('ok').hidden = false; }
 function fallback() {
   var r = document.createRange(); r.selectNode(document.getElementById('sig'));

diff --git a/email-signature/signature-casey-van-zilen.html b/email-signature/signature-casey-van-zilen.html
@@ -18,7 +18,7 @@
     <tr><td style="padding:10px 0 0 0;">
       <table cellpadding="0" cellspacing="0" border="0" style="border-collapse:collapse;"><tr>
         <td style="padding:0 4px 0 0;"><a href="https://befirstsearch.com/" target="_blank" style="text-decoration:none;"><img class="fs-d" src="https://raw.githubusercontent.com/chrismitchell-cmd/first-search-marketing/038d49aa300f69e9255e79509927c0bbda54a0d3/email-signature/img/icon-web.gif" width="30" height="30" alt="Website" style="display:block;border:0;width:30px;height:30px;"><!--[if !mso]><!--><img class="fs-h" src="https://raw.githubusercontent.com/chrismitchell-cmd/first-search-marketing/038d49aa300f69e9255e79509927c0bbda54a0d3/email-signature/img/icon-web-hover.png" width="30" height="30" alt="Website" style="display:none;mso-hide:all;border:0;width:30px;height:30px;max-height:0;overflow:hidden;"><!--<![endif]--></a></td><td style="padding:0 4px 0 0;"><a href="https://www.instagram.com/firstsearchmktg/" target="_blank" style="text-decoration:none;"><img class="fs-d" src="https://raw.githubusercontent.com/chrismitchell-cmd/first-search-marketing/038d49aa300f69e9255e79509927c0bbda54a0d3/email-signature/img/icon-instagram.gif" width="30" height="30" alt="Instagram" style="display:block;border:0;width:30px;height:30px;"><!--[if !mso]><!--><img class="fs-h" src="https://raw.githubusercontent.com/chrismitchell-cmd/first-search-marketing/038d49aa300f69e9255e79509927c0bbda54a0d3/email-signature/img/icon-instagram-hover.png" width="30" height="30" alt="Instagram" style="display:none;mso-hide:all;border:0;width:30px;height:30px;max-height:0;overflow:hidden;"><!--<![endif]--></a></td><td style="padding:0 4px 0 0;"><a href="https://www.linkedin.com/company/first-search-marketing/" target="_blank" style="text-decoration:none;"><img class="fs-d" src="https://raw.githubusercontent.com/chrismitchell-cmd/first-search-marketing/038d49aa300f69e9255e79509927c0bbda54a0d3/email-signature/img/icon-linkedin.gif" width="30" height="30" alt="LinkedIn" style="display:block;border:0;width:30px;height:30px;"><!--[if !mso]><!--><img class="fs-h" src="https://raw.githubusercontent.com/chrismitchell-cmd/first-search-marketing/038d49aa300f69e9255e79509927c0bbda54a0d3/email-signature/img/icon-linkedin-hover.png" width="30" height="30" alt="LinkedIn" style="display:none;mso-hide:all;border:0;width:30px;height:30px;max-height:0;overflow:hidden;"><!--<![endif]--></a></td><td style="padding:0 4px 0 0;"><a href="https://www.facebook.com/p/First-Search-Marketing-LLC-100063771473527/" target="_blank" style="text-decoration:none;"><img class="fs-d" src="https://raw.githubusercontent.com/chrismitchell-cmd/first-search-marketing/038d49aa300f69e9255e79509927c0bbda54a0d3/email-signature/img/icon-facebook.gif" width="30" height="30" alt="Facebook" style="display:block;border:0;width:30px;height:30px;"><!--[if !mso]><!--><img class="fs-h" src="https://raw.githubusercontent.com/chrismitchell-cmd/first-search-marketing/038d49aa300f69e9255e79509927c0bbda54a0d3/email-signature/img/icon-facebook-hover.png" width="30" height="30" alt="Facebook" style="display:none;mso-hide:all;border:0;width:30px;height:30px;max-height:0;overflow:hidden;"><!--<![endif]--></a></td>
-        <td style="padding:0 0 0 4px;"><a href="https://befirstsearch.com/contact-us/" target="_blank" style="text-decoration:none;"><img class="fs-d" src="https://raw.githubusercontent.com/chrismitchell-cmd/first-search-marketing/038d49aa300f69e9255e79509927c0bbda54a0d3/email-signature/img/book-a-meeting.gif" width="102" height="30" alt="Book a meeting" style="display:block;border:0;width:102px;height:30px;"><!--[if !mso]><!--><img class="fs-h" src="https://raw.githubusercontent.com/chrismitchell-cmd/first-search-marketing/038d49aa300f69e9255e79509927c0bbda54a0d3/email-signature/img/book-a-meeting-hover.png" width="102" height="30" alt="Book a meeting" style="display:none;mso-hide:all;border:0;width:102px;height:30px;max-height:0;overflow:hidden;"><!--<![endif]--></a></td>
+        
       </tr></table>
     </td></tr>
   </table>

diff --git a/email-signature/signature-jordyn-reardon.html b/email-signature/signature-jordyn-reardon.html
@@ -18,7 +18,7 @@
     <tr><td style="padding:10px 0 0 0;">
       <table cellpadding="0" cellspacing="0" border="0" style="border-collapse:collapse;"><tr>
         <td style="padding:0 4px 0 0;"><a href="https://befirstsearch.com/" target="_blank" style="text-decoration:none;"><img class="fs-d" src="https://raw.githubusercontent.com/chrismitchell-cmd/first-search-marketing/038d49aa300f69e9255e79509927c0bbda54a0d3/email-signature/img/icon-web.gif" width="30" height="30" alt="Website" style="display:block;border:0;width:30px;height:30px;"><!--[if !mso]><!--><img class="fs-h" src="https://raw.githubusercontent.com/chrismitchell-cmd/first-search-marketing/038d49aa300f69e9255e79509927c0bbda54a0d3/email-signature/img/icon-web-hover.png" width="30" height="30" alt="Website" style="display:none;mso-hide:all;border:0;width:30px;height:30px;max-height:0;overflow:hidden;"><!--<![endif]--></a></td><td style="padding:0 4px 0 0;"><a href="https://www.instagram.com/firstsearchmktg/" target="_blank" style="text-decoration:none;"><img class="fs-d" src="https://raw.githubusercontent.com/chrismitchell-cmd/first-search-marketing/038d49aa300f69e9255e79509927c0bbda54a0d3/email-signature/img/icon-instagram.gif" width="30" height="30" alt="Instagram" style="display:block;border:0;width:30px;height:30px;"><!--[if !mso]><!--><img class="fs-h" src="https://raw.githubusercontent.com/chrismitchell-cmd/first-search-marketing/038d49aa300f69e9255e79509927c0bbda54a0d3/email-signature/img/icon-instagram-hover.png" width="30" height="30" alt="Instagram" style="display:none;mso-hide:all;border:0;width:30px;height:30px;max-height:0;overflow:hidden;"><!--<![endif]--></a></td><td style="padding:0 4px 0 0;"><a href="https://www.linkedin.com/company/first-search-marketing/" target="_blank" style="text-decoration:none;"><img class="fs-d" src="https://raw.githubusercontent.com/chrismitchell-cmd/first-search-marketing/038d49aa300f69e9255e79509927c0bbda54a0d3/email-signature/img/icon-linkedin.gif" width="30" height="30" alt="LinkedIn" style="display:block;border:0;width:30px;height:30px;"><!--[if !mso]><!--><img class="fs-h" src="https://raw.githubusercontent.com/chrismitchell-cmd/first-search-marketing/038d49aa300f69e9255e79509927c0bbda54a0d3/email-signature/img/icon-linkedin-hover.png" width="30" height="30" alt="LinkedIn" style="display:none;mso-hide:all;border:0;width:30px;height:30px;max-height:0;overflow:hidden;"><!--<![endif]--></a></td><td style="padding:0 4px 0 0;"><a href="https://www.facebook.com/p/First-Search-Marketing-LLC-100063771473527/" target="_blank" style="text-decoration:none;"><img class="fs-d" src="https://raw.githubusercontent.com/chrismitchell-cmd/first-search-marketing/038d49aa300f69e9255e79509927c0bbda54a0d3/email-signature/img/icon-facebook.gif" width="30" height="30" alt="Facebook" style="display:block;border:0;width:30px;height:30px;"><!--[if !mso]><!--><img class="fs-h" src="https://raw.githubusercontent.com/chrismitchell-cmd/first-search-marketing/038d49aa300f69e9255e79509927c0bbda54a0d3/email-signature/img/icon-facebook-hover.png" width="30" height="30" alt="Facebook" style="display:none;mso-hide:all;border:0;width:30px;height:30px;max-height:0;overflow:hidden;"><!--<![endif]--></a></td>
-        <td style="padding:0 0 0 4px;"><a href="https://befirstsearch.com/contact-us/" target="_blank" style="text-decoration:none;"><img class="fs-d" src="https://raw.githubusercontent.com/chrismitchell-cmd/first-search-marketing/038d49aa300f69e9255e79509927c0bbda54a0d3/email-signature/img/book-a-meeting.gif" width="102" height="30" alt="Book a meeting" style="display:block;border:0;width:102px;height:30px;"><!--[if !mso]><!--><img class="fs-h" src="https://raw.githubusercontent.com/chrismitchell-cmd/first-search-marketing/038d49aa300f69e9255e79509927c0bbda54a0d3/email-signature/img/book-a-meeting-hover.png" width="102" height="30" alt="Book a meeting" style="display:none;mso-hide:all;border:0;width:102px;height:30px;max-height:0;overflow:hidden;"><!--<![endif]--></a></td>
+        
       </tr></table>
     </td></tr>
   </table>

diff --git a/email-signature/build.py b/email-signature/build.py
@@ -38,11 +38,11 @@ ME = dict(
     facebook='https://www.facebook.com/p/First-Search-Marketing-LLC-100063771473527/',
     book='https://befirstsearch.com/contact-us/',
 )
-# Team signatures: each person's details override the ones above. Each gets a copy page (file) and a signature-only file.
+# Team signatures: each person's details override the ones above (book='' leaves out the Book a meeting button). Each gets a copy page (file) and a signature-only file.
 TEAM = [
     dict(file='index', name='Chris Mitchell', title='Owner & Digital Partner', email='chris@befirstsearch.com'),
-    dict(file='jordyn-reardon', name='Jordyn Reardon', title='Digital Operations Manager', email='jordyn@befirstsearch.com'),
-    dict(file='casey-van-zilen', name='Casey Van Zilen', title='Brand Specialist', email='casey@befirstsearch.com'),
+    dict(file='jordyn-reardon', name='Jordyn Reardon', title='Digital Operations Manager', email='jordyn@befirstsearch.com', book=''),
+    dict(file='casey-van-zilen', name='Casey Van Zilen', title='Brand Specialist', email='casey@befirstsearch.com', book=''),
 ]
 
 NAVY = (37, 7, 98); SKY = (50, 153, 213); AQUA = (114, 204, 216); ROYAL = (23, 79, 162); WHITE = (255, 255, 255)
@@ -364,7 +364,7 @@ def signature_html():
     <tr><td style="padding:10px 0 0 0;">
       <table cellpadding="0" cellspacing="0" border="0" style="border-collapse:collapse;"><tr>
         {icon('web', ME['website'], 'Website')}{icon('instagram', ME['instagram'], 'Instagram')}{icon('linkedin', ME['linkedin'], 'LinkedIn')}{icon('facebook', ME['facebook'], 'Facebook')}
-        <td style="padding:0 0 0 4px;">{a(ME['book'], swap('img/book-a-meeting.gif', 'img/book-a-meeting-hover.png', 102, 30, 'Book a meeting'))}</td>
+        {f'<td style="padding:0 0 0 4px;">' + a(ME['book'], swap('img/book-a-meeting.gif', 'img/book-a-meeting-hover.png', 102, 30, 'Book a meeting')) + '</td>' if ME.get('book') else ''}
       </tr></table>
     </td></tr>
   </table>
